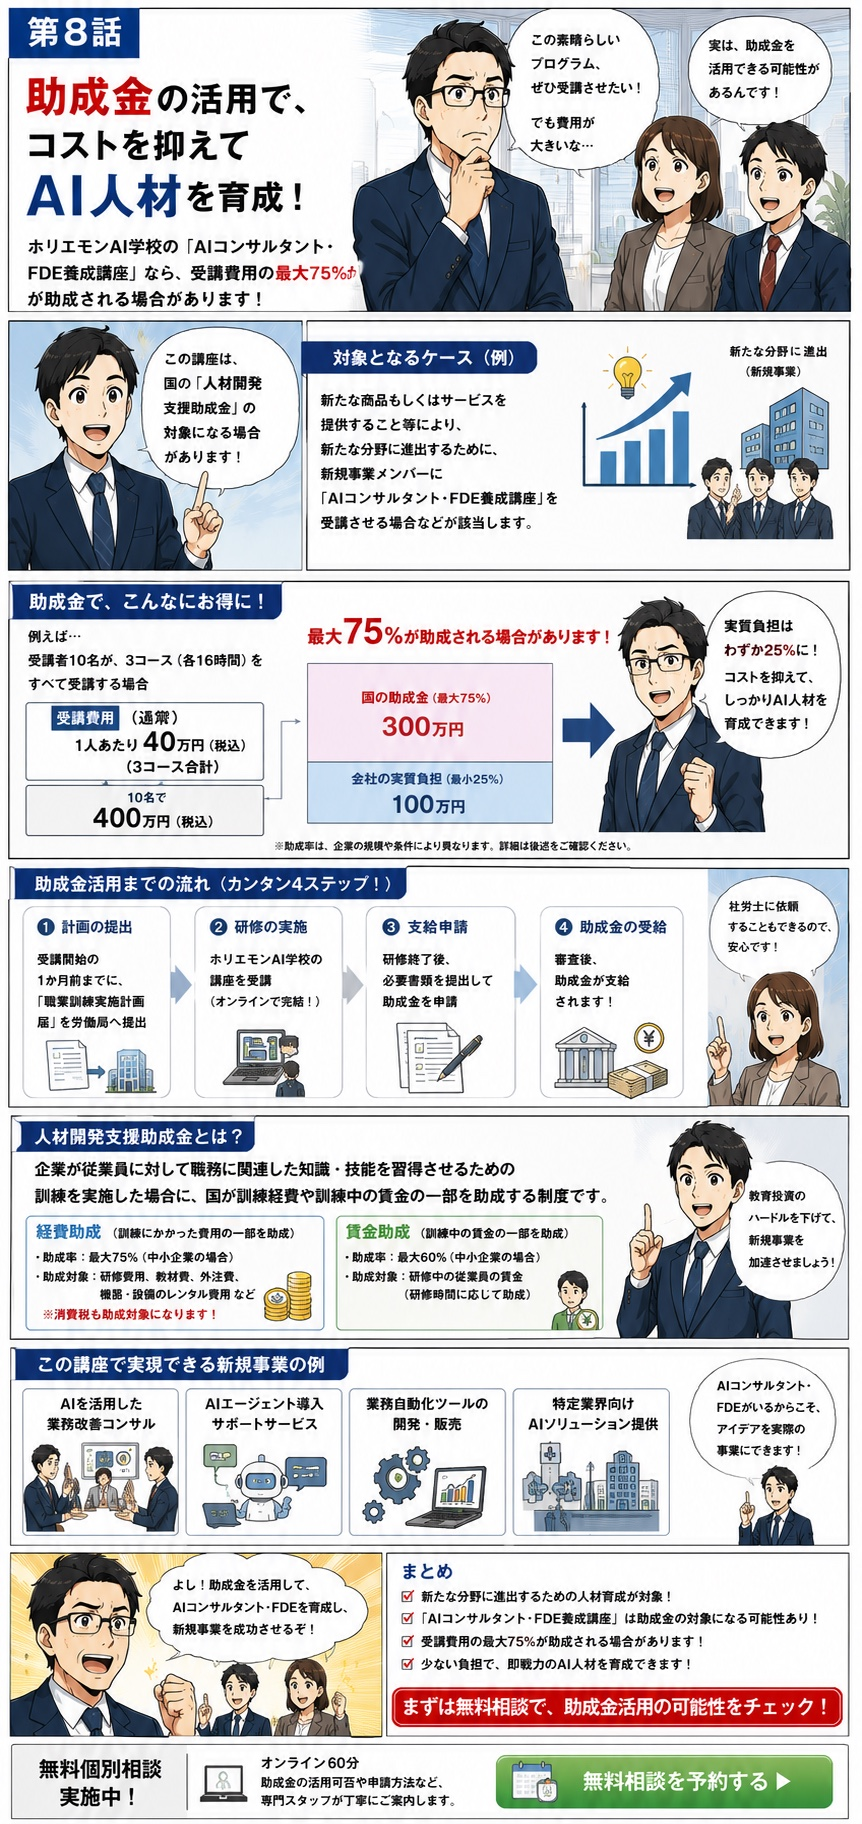
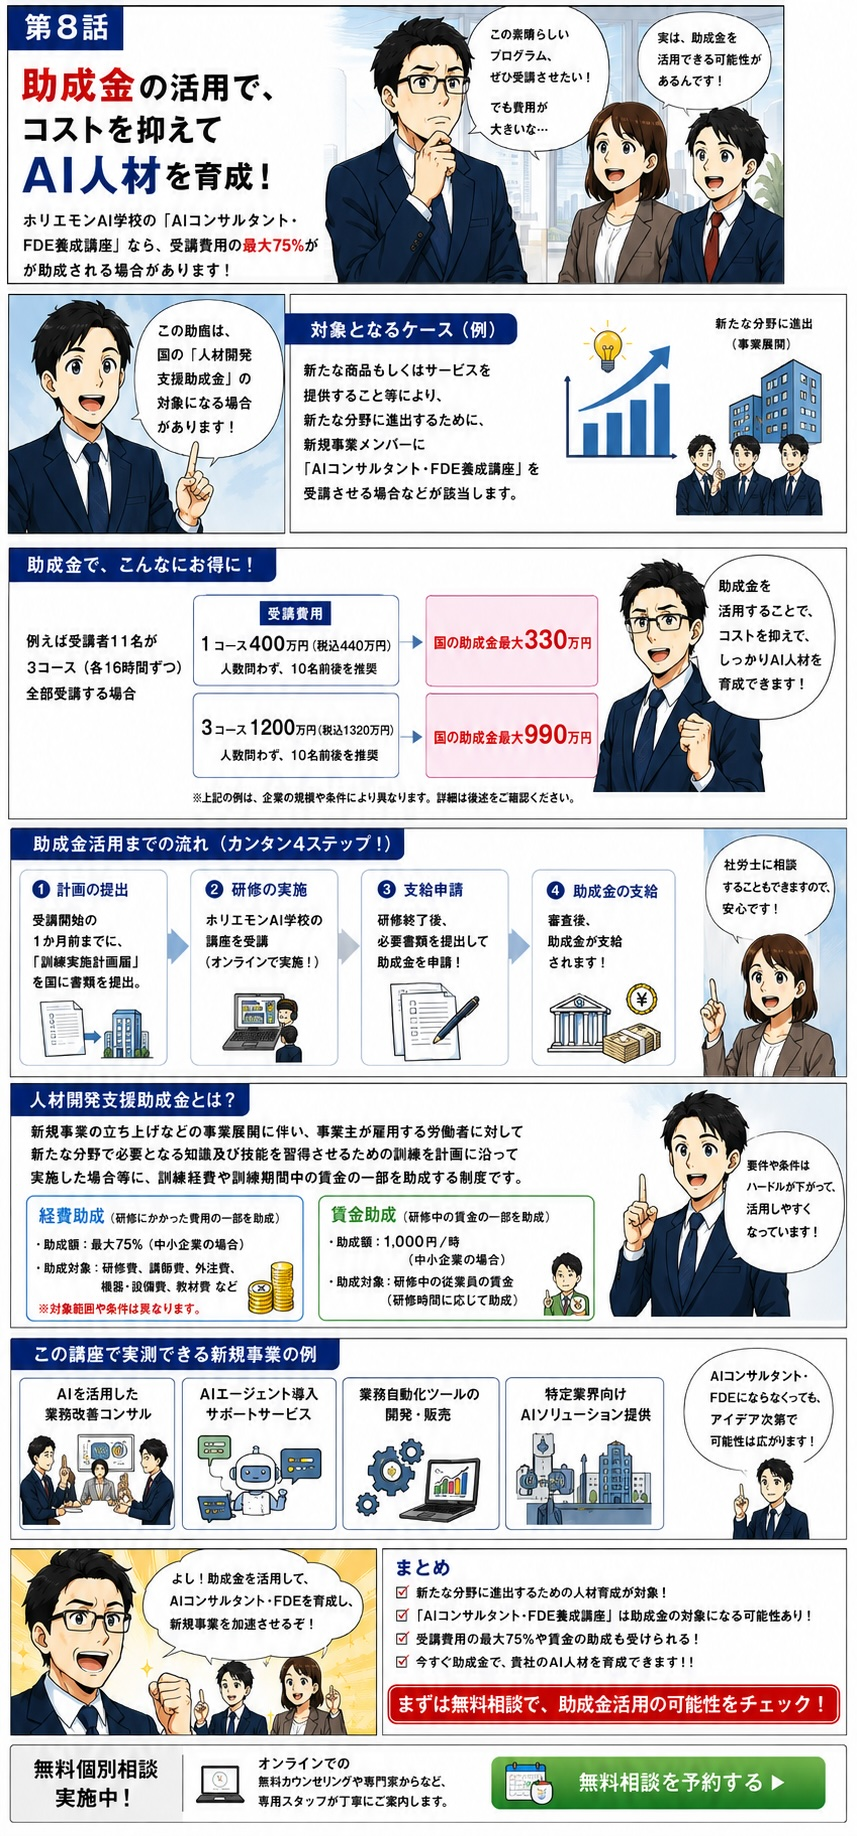
partner: 第8話漫画画像を差し替え、width/height属性を実寸に合わせて更新

diff --git a/partner/index.html b/partner/index.html
@@ -341,7 +341,7 @@ height="0" width="0" style="display:none;visibility:hidden"></iframe></noscript>
   5: 初受注                /partner/manga/05.jpg (941x1672)
   6: 事業が伸びる          /partner/manga/06.jpg (941x1672)
   7: 地域No.1のAI企業へ    /partner/manga/07.jpg (941x1672)
-  8: 助成金の活用          /partner/manga/08.jpg (862x1824)
+  8: 助成金の活用          /partner/manga/08.jpg (857x1836)
 -->
 <div class="manga-section">
   <div class="manga-episode">
@@ -382,7 +382,7 @@ height="0" width="0" style="display:none;visibility:hidden"></iframe></noscript>
     <img src="/partner/manga/07.jpg" width="941" height="1672" alt="第7話 地域No.1のAI企業へ" loading="lazy" decoding="async">
   </div>
   <div class="manga-episode">
-    <img src="/partner/manga/08.jpg" width="862" height="1824" alt="第8話 助成金の活用" loading="lazy" decoding="async">
+    <img src="/partner/manga/08.jpg" width="857" height="1836" alt="第8話 助成金の活用" loading="lazy" decoding="async">
   </div>
 
   <div class="manga-cta">
